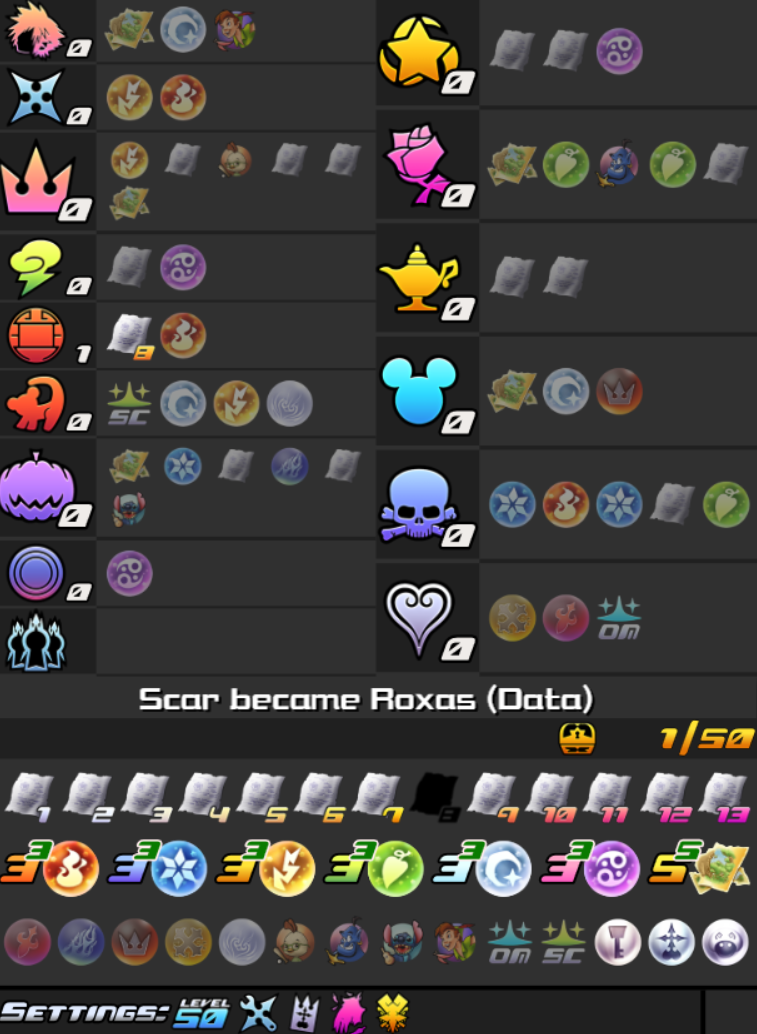
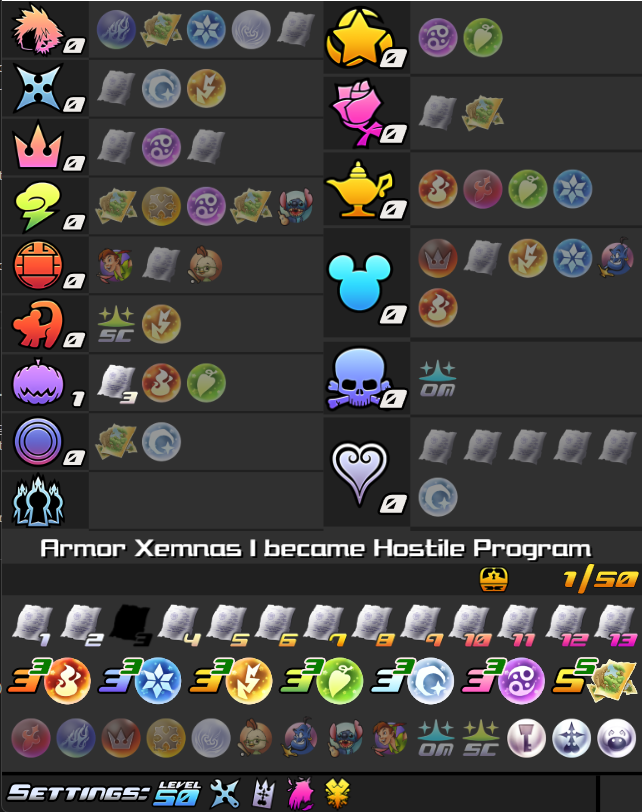
attempt at video inclusion

diff --git a/docs/hints/index.md b/docs/hints/index.md
@@ -6,6 +6,7 @@ The randomizer community has come up with several hint systems.
     * [Hint logic](#hint-logic)
 * [Shananas](#shananas)
 * [Points](#points)
+* [Boss](#boss)
 * [Path Hints](#path-hints)
     * [Original Locations Cheatsheet](#original-locations-cheatsheet)
 * [Spoiler Hints](#spoiler-hints)
@@ -142,14 +143,13 @@ now a blue zero, no more Important Checks are located there.
 These hints are primarily used for Boss Enemy randomizer modes such as (but not limited to) 1 Hour Challenge and Boss Enemy Bingo.
 These hints display a boss replacement in the current seed. 
 
-For example, consider getting Report 8 in Land of Dragons as shown in the screenshot below.
+For example, consider getting Report 3 in Halloween Town as shown in the screenshot below.
 
 ![Tracker with Boss Hint](boss/DA_example.png)
 
-The report reveals the boss replacement "Scar became Roxas (Data)." This means that if you walked into Scar's arena, you would find that Data Roxas
-would be waiting there for you. Having 13 reports means that you get 13 boss enemy replacement hints. If you want to see a specific report's hint in DA's tracker, you can hover over it to reveals its contents.
+The report reveals the boss replacement "Armor(ed) Xemnas became Hostile Program." This means that if you walked into Armored Xemnas I's arena, you would find that Hostile Program would be waiting there for you. Having 13 reports means that you get 13 boss enemy replacement hints. If you want to see a specific report's hint in DA's tracker, you can hover over it to reveals its contents.
 
-INCLUDE GIF OF THIS HERE
+![Tracker Demonstration](boss/DA_animation.webvtt)
 
 Another way to get these hints visualized is via the Battleship Tracker
 
